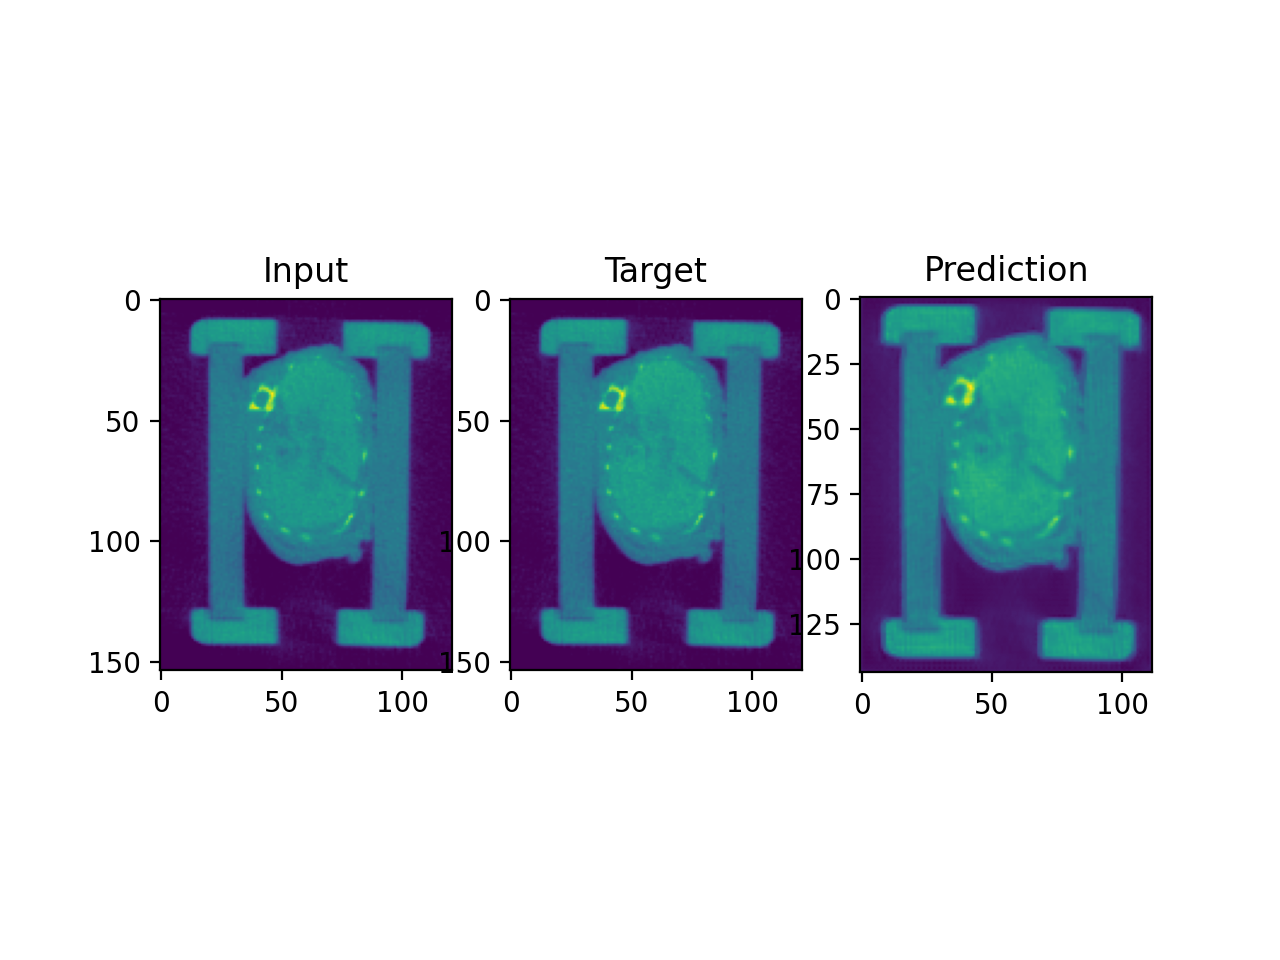
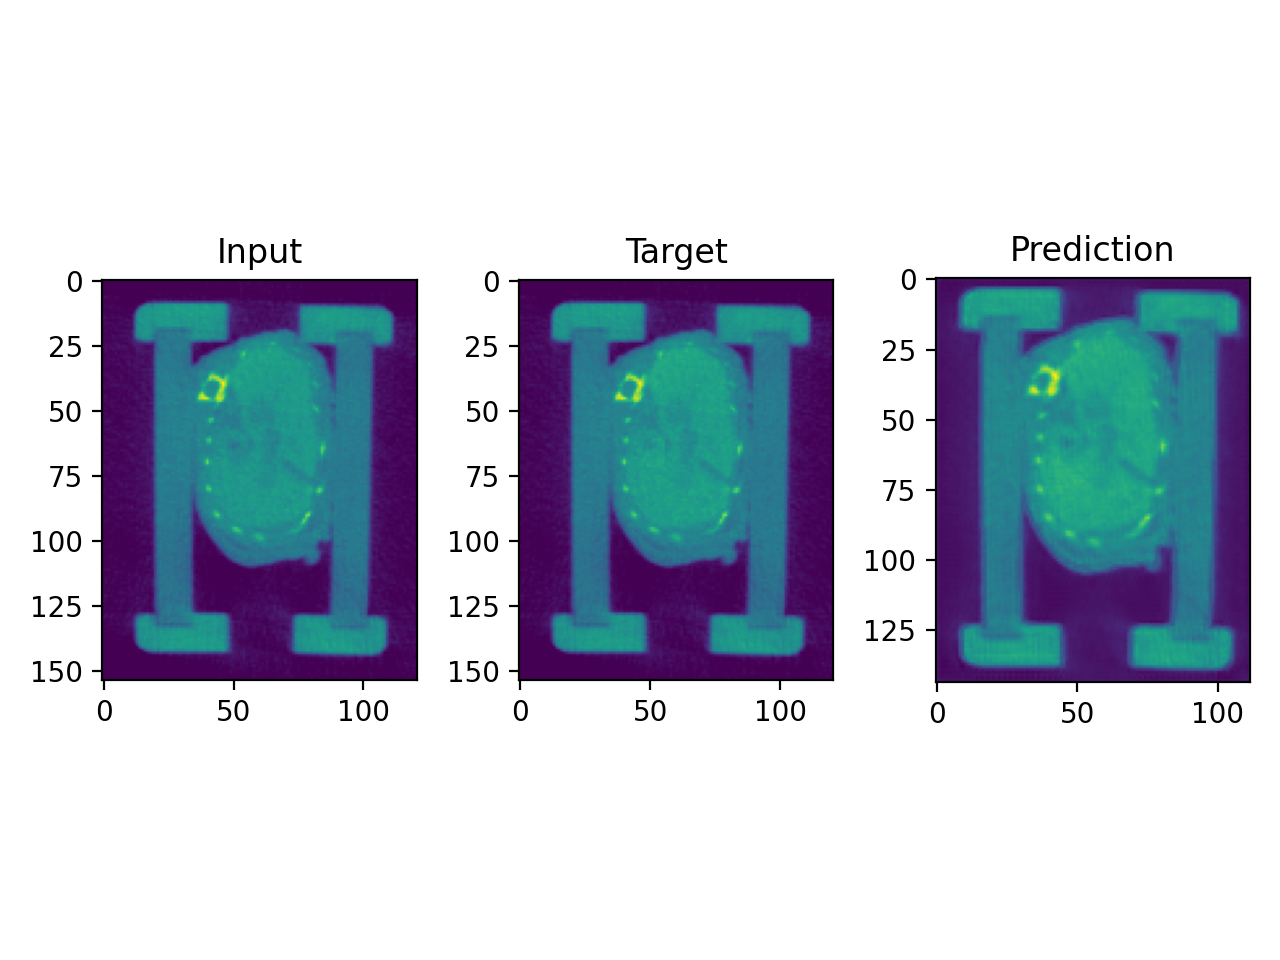
predictions presentation

Changed region(s): [[0.0312, 0.25, 1.0, 0.75]]

diff --git a/_predict.py b/_predict.py
@@ -34,7 +34,7 @@ model.load_state_dict(torch.load(model_path))
 def normalize(arr):
     return (arr-np.mean(arr))/np.std(arr)
 input, target, val_input, val_target = get_data(plane='transversal', val_mouse=5)
-ind = 80
+ind = 150
 slice_input, slice_target = normalize(val_input[ind]), normalize(val_target[ind])
 slice_to_predict = torch.from_numpy(np.array(slice_input.copy())).unsqueeze(0).unsqueeze(0)
 
@@ -52,7 +52,7 @@ axs[0].set_title('Input')
 axs[1].set_title('Target')
 axs[2].set_title('Prediction')
 plt.tight_layout()
-plt.savefig(f'IMAGES/PRED_GOOD_{ind}.png', dpi=200)
+plt.savefig(f'IMAGES/PRED_BAD_{ind}.png', dpi=200)
 plt.show()
 
 
